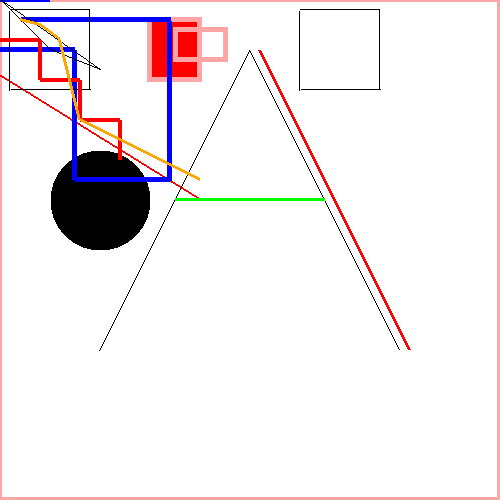
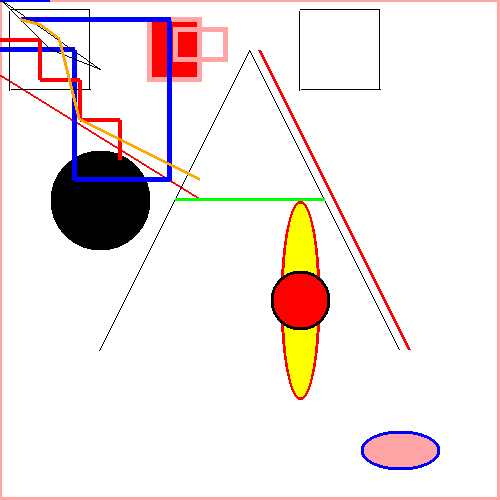
ellipse.py (fill, stroke, stroke-width)

Changed region(s): [[0.54, 0.39, 0.66, 0.81], [0.72, 0.84, 0.9, 0.96]]

diff --git a/src/shapes/ellipse.py b/src/shapes/ellipse.py
@@ -1,0 +1,33 @@
+import math
+import numpy as np
+
+
+class Ellipse:
+    def __init__(self, x, y, rx, ry, fill_color, stroke_color, stroke_width):
+        self.x = x
+        self.y = y
+        self.rx = rx
+        self.ry = ry
+        self.fill_color = fill_color
+        self.stroke_color = stroke_color
+        self.stroke_width = stroke_width
+
+    @staticmethod
+    def from_svg_props(attrib, style):
+        return Ellipse(float(attrib['cx']), float(attrib['cy']), float(attrib['rx']), float(attrib['ry']), style[0],
+                       style[1], style[2])
+
+    @staticmethod
+    def _inside_ellipse(x, y, cx, cy, rx, ry):
+        return ((cx - x) ** 2) / (rx ** 2) + ((cy - y) ** 2) / (ry ** 2) < 1
+
+    def draw(self, canvas):
+        for dx in np.arange(self.x - self.rx, self.x + self.rx, 1):
+            for dy in np.arange(self.y - self.ry, self.y + self.ry, 1):
+                if Ellipse._inside_ellipse(dx, dy, self.x, self.y, self.rx, self.ry):
+                    if self.stroke_color and self.stroke_width and Ellipse._inside_ellipse(dx, dy, self.x, self.y,
+                                                                                           self.rx - self.stroke_width,
+                                                                                           self.ry - self.stroke_width):
+                        canvas.put_pixel(dx, dy, self.stroke_color)
+                    elif self.fill_color:
+                        canvas.put_pixel(dx, dy, self.fill_color)

diff --git a/src/utils/xml_parser.py b/src/utils/xml_parser.py
@@ -4,6 +4,7 @@ from src.shapes.circle import Circle
 from src.shapes.line import Line
 from src.shapes.polyline import Polyline
 from src.shapes.path import Path
+from src.shapes.ellipse import Ellipse
 import re
 
 
@@ -23,7 +24,7 @@ def convert_color(clr):
         'pink': (255, 165, 165),
         'orange': (255, 165, 0),
         'magenta': (255, 0, 255),
-        'yellow': (0, 255, 255),
+        'yellow': (255, 255, 0),
         'brown': (165, 50, 50),
         'gray': (165, 165, 165)
     }
@@ -64,6 +65,7 @@ def parse_xml(filepath):
     root = tree.getroot()
     shapes = {
         'circle': Circle,
+        'ellipse': Ellipse,
         'line': Line,
         'path': Path,
         'polyline': Polyline,
